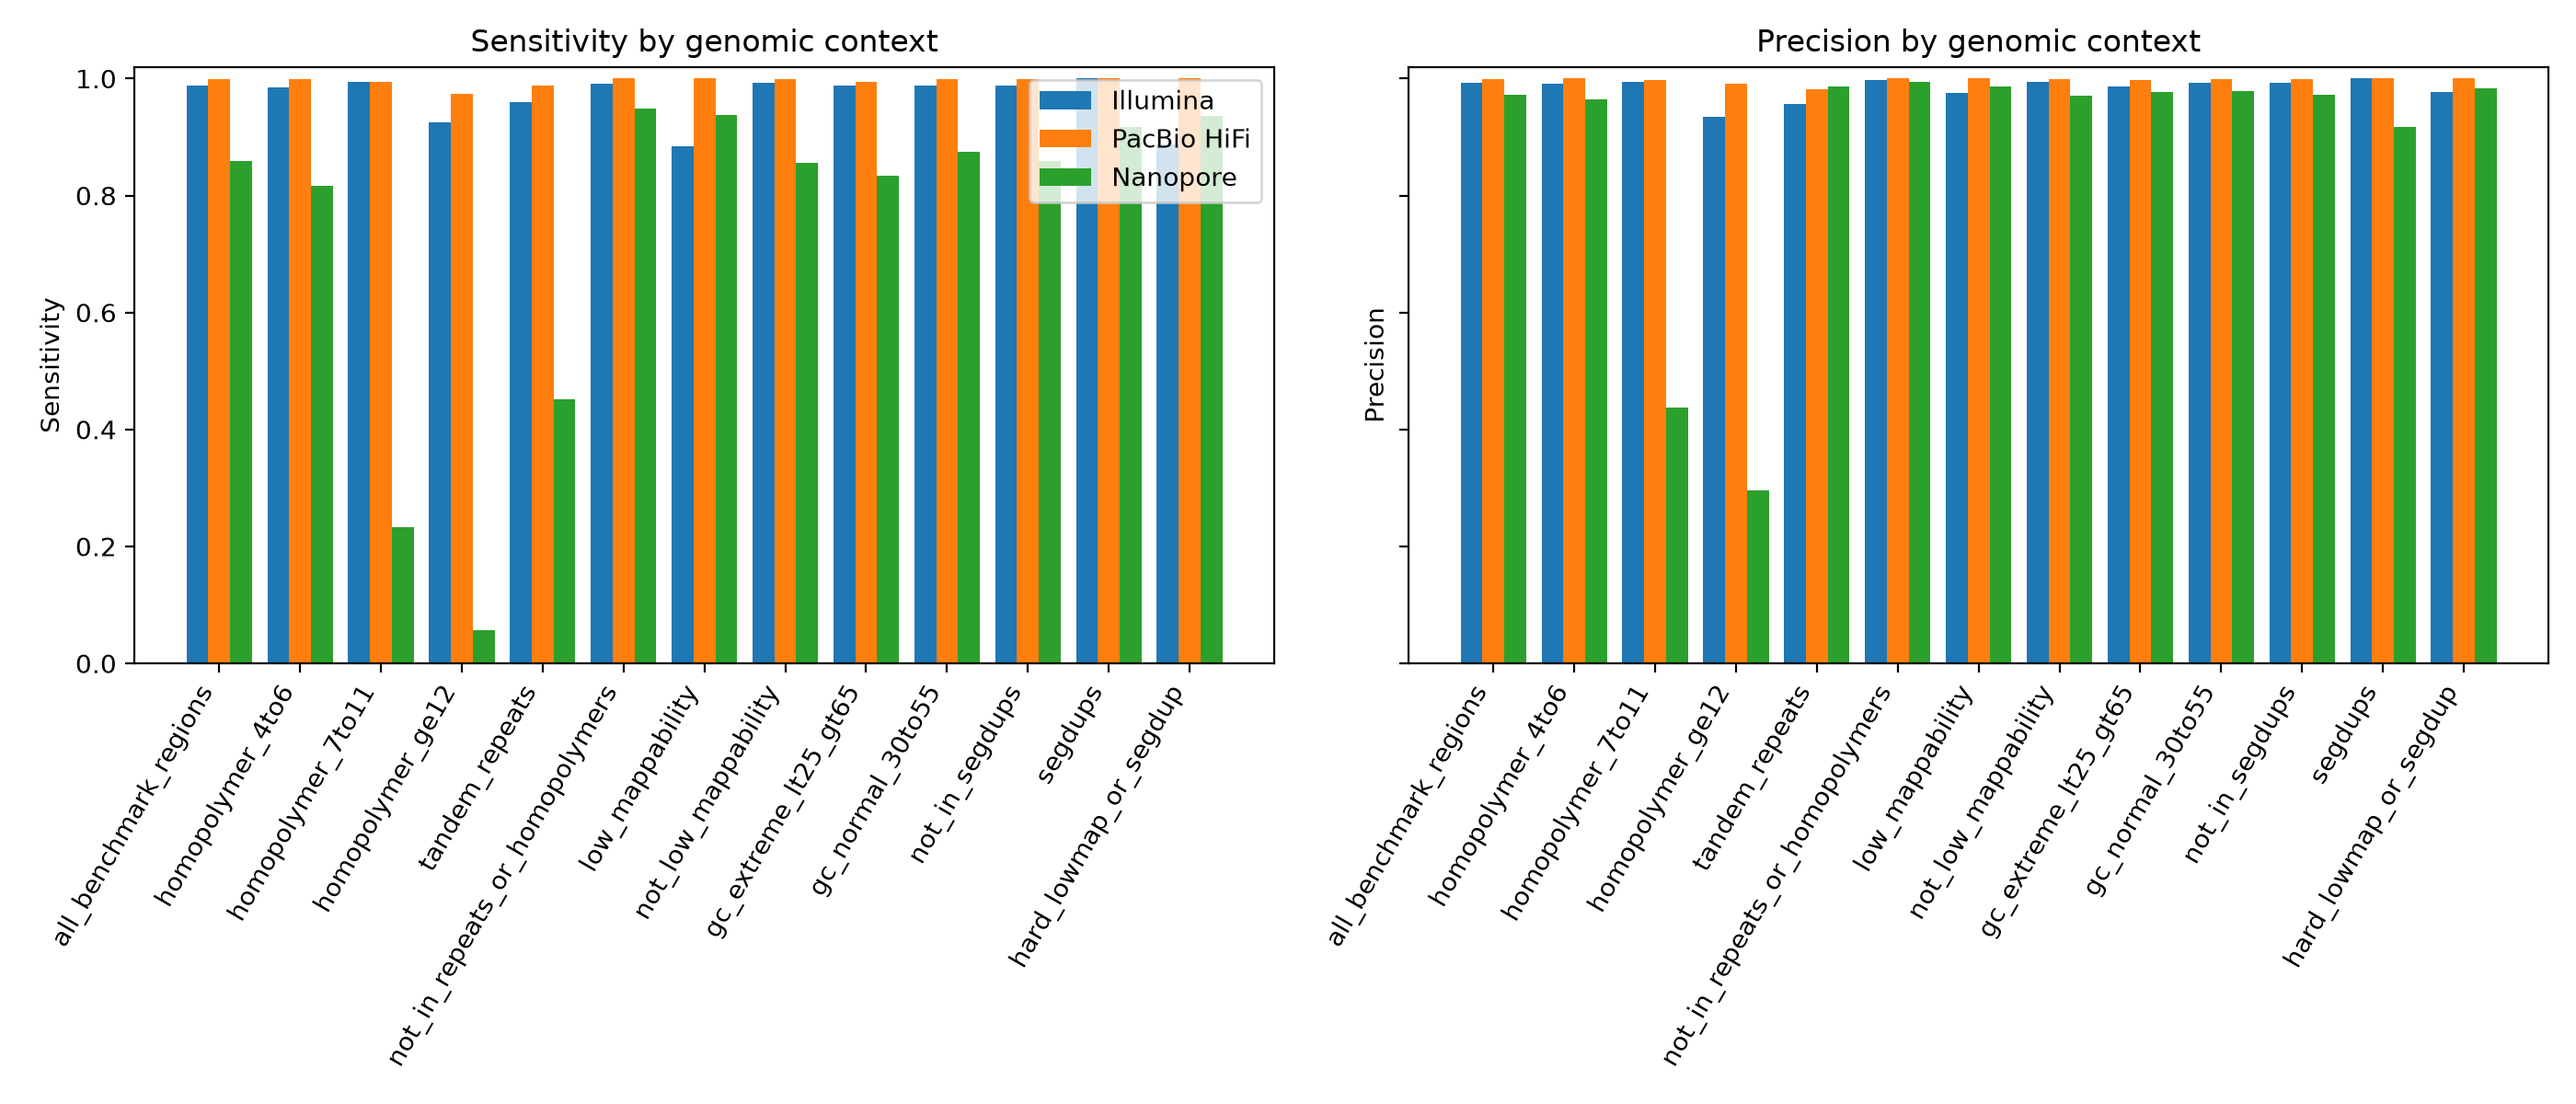
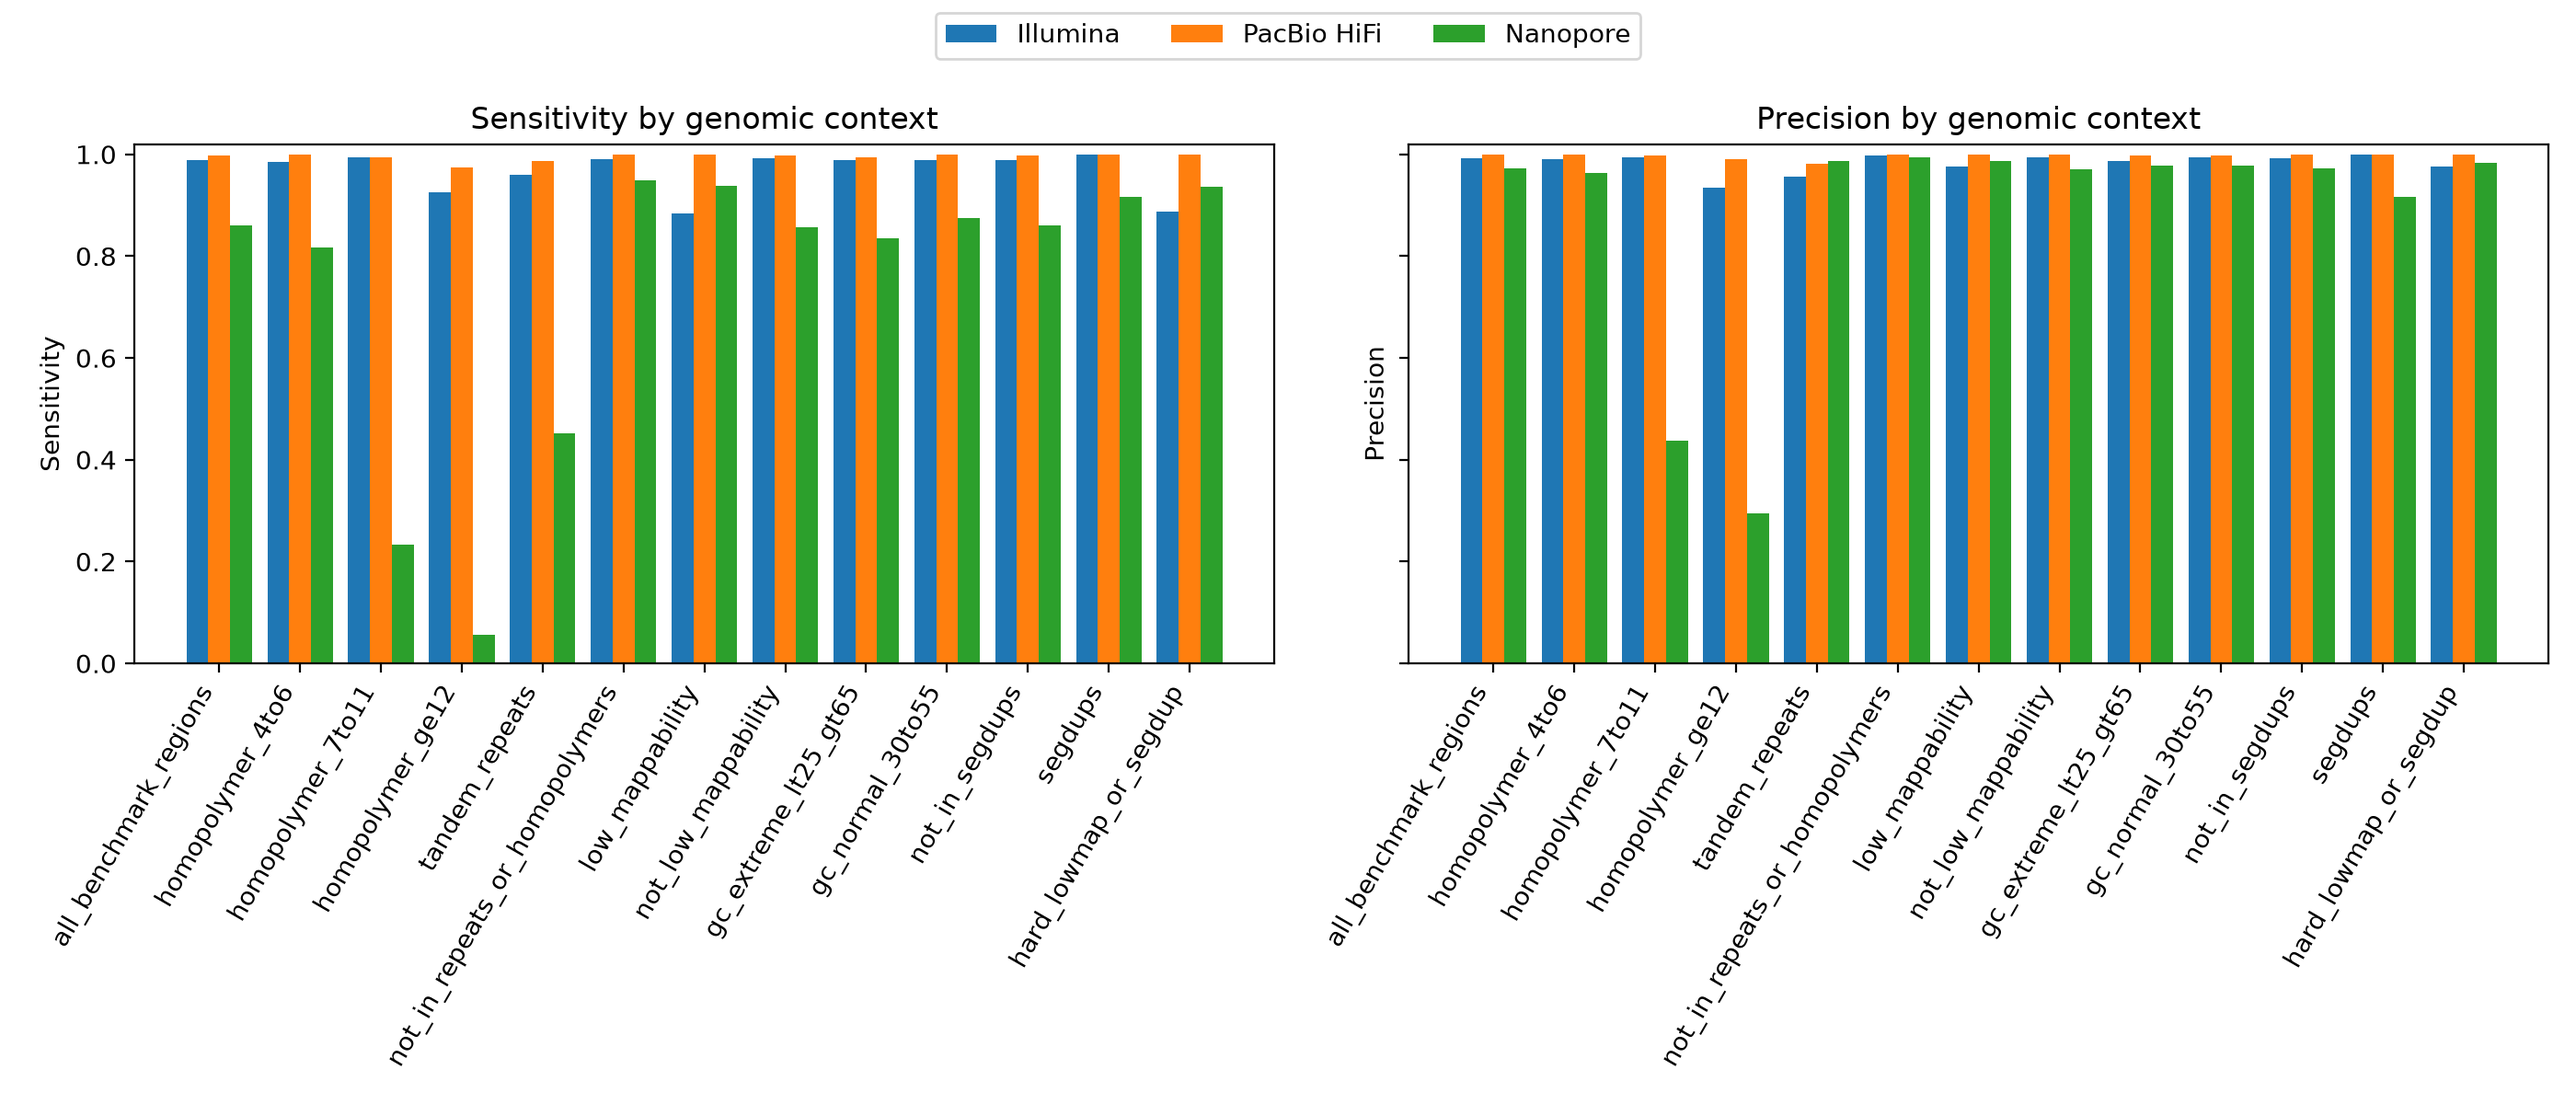
Stratify aligner-swap runs, make stratify.sh portable, fix plot legend, add read stats

diff --git a/scripts/plot_strat.py b/scripts/plot_strat.py
@@ -14,6 +14,6 @@ for ax, metric in zip(axes, ["sensitivity", "precision"]):
     ax.set_xticklabels(order, rotation=60, ha="right")
     ax.set_title(metric.capitalize() + " by genomic context")
     ax.set_ylabel(metric.capitalize()); ax.set_ylim(0, 1.02)
-axes[0].legend()
-plt.tight_layout()
+fig.legend(*axes[0].get_legend_handles_labels(), loc="upper center", ncol=3)
+plt.tight_layout(rect=(0, 0, 1, 0.93))
 plt.savefig("results/strat/strat_barplot.png", dpi=200)
